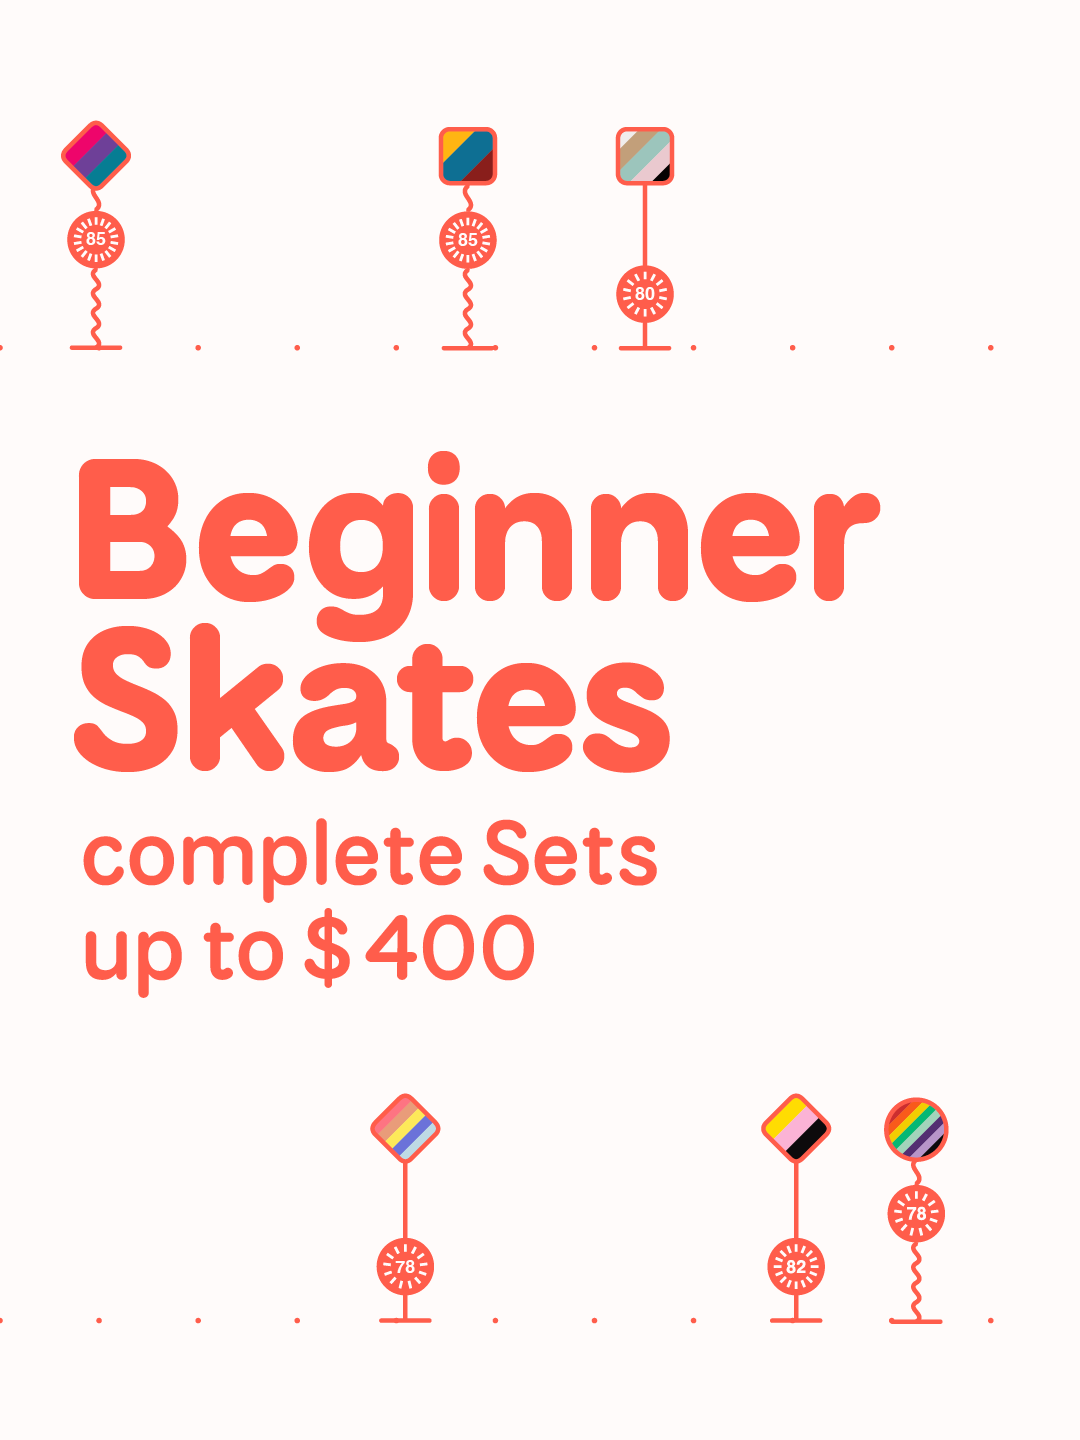
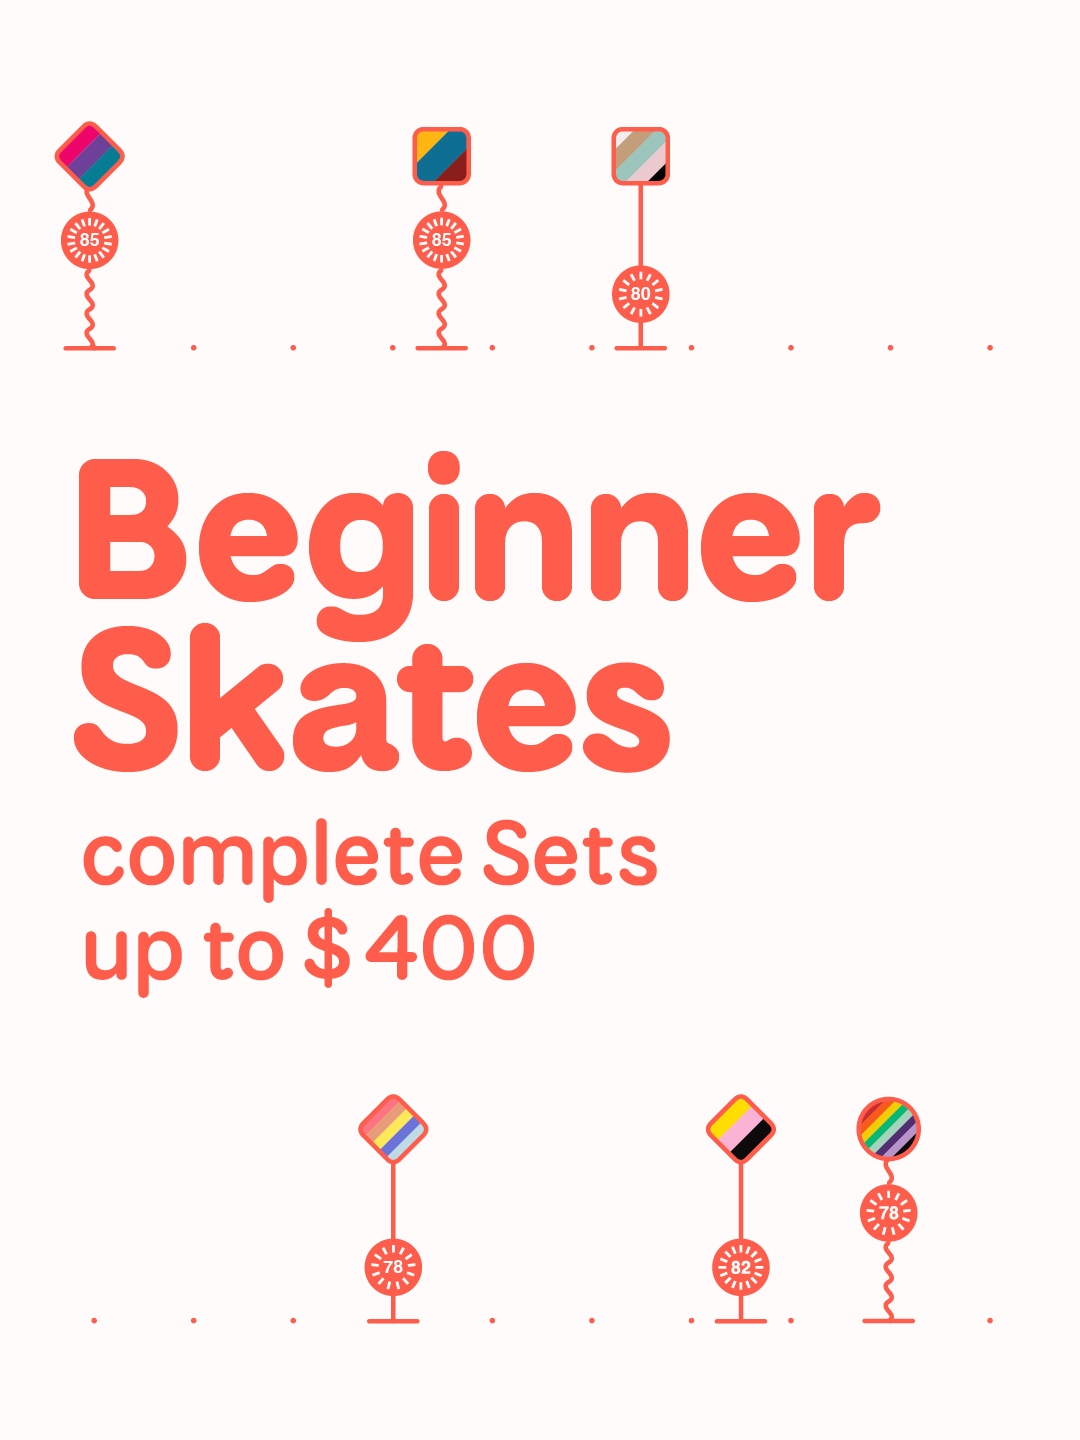
annoying dots fixed

diff --git a/public/Rollerskate-Dataviz/components/rows.css b/public/Rollerskate-Dataviz/components/rows.css
@@ -110,6 +110,13 @@
   gap: 1px;
 }
 
+@media (hover: none) {
+  .chart__brand {
+    pointer-events: auto;
+    cursor: pointer;
+  }
+}
+
 .chart__brand-name {
   font-family:    var(--text-brand-font);
   font-size:      var(--text-brand-size);

diff --git a/public/Rollerskate-Dataviz/components/rows.js b/public/Rollerskate-Dataviz/components/rows.js
@@ -79,6 +79,7 @@ function buildDots(trackEl) {
   for (let i = 0; i <= steps; i++) {
     const value   = SCALE_MIN + i * SCALE_DOT_STEP;
     const isMajor = value % SCALE_STEP === 0;
+    if (isMajor && (value === SCALE_MIN || value === SCALE_MAX)) continue;
     const dot = document.createElement('div');
     dot.className = `chart__dot chart__dot--${isMajor ? 'major' : 'minor'}`;
     dot.style.left = priceToPercent(value);
@@ -113,6 +114,7 @@ function buildSepDots(rowEl) {
   for (let i = 0; i <= steps; i++) {
     const value   = SCALE_MIN + i * SCALE_DOT_STEP;
     const isMajor = value % SCALE_STEP === 0;
+    if (isMajor && (value === SCALE_MIN || value === SCALE_MAX)) continue;
     const dot = document.createElement('div');
     dot.className = `chart__sep-dot chart__sep-dot--${isMajor ? 'major' : 'minor'}`;
     dot.style.left = priceToPercent(value);